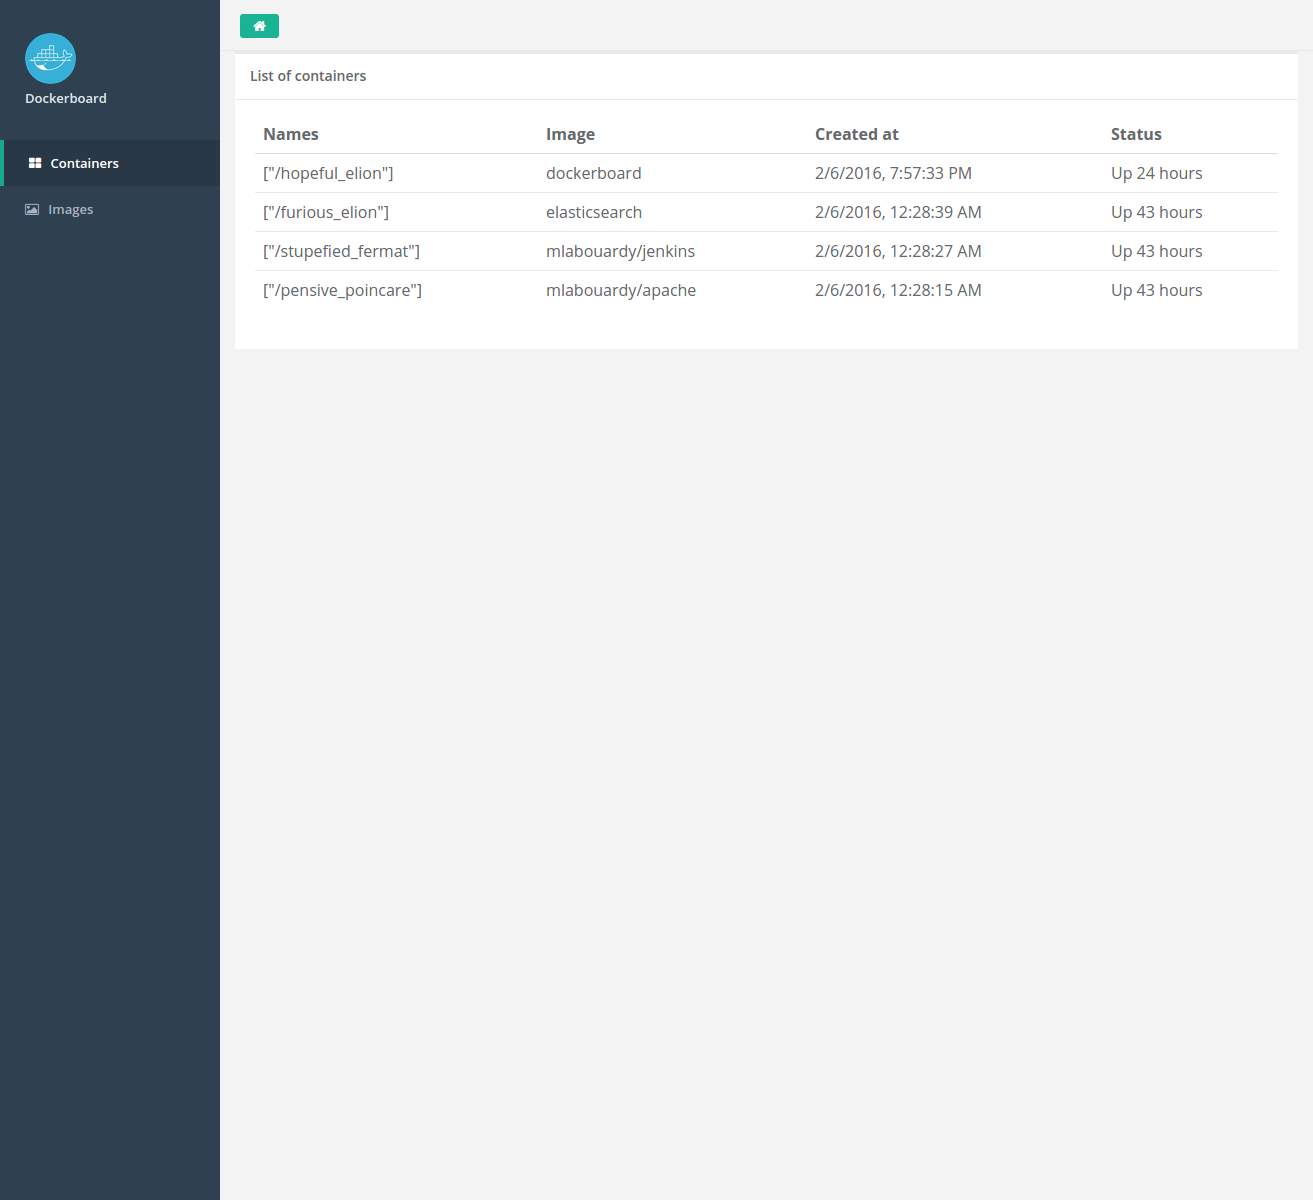
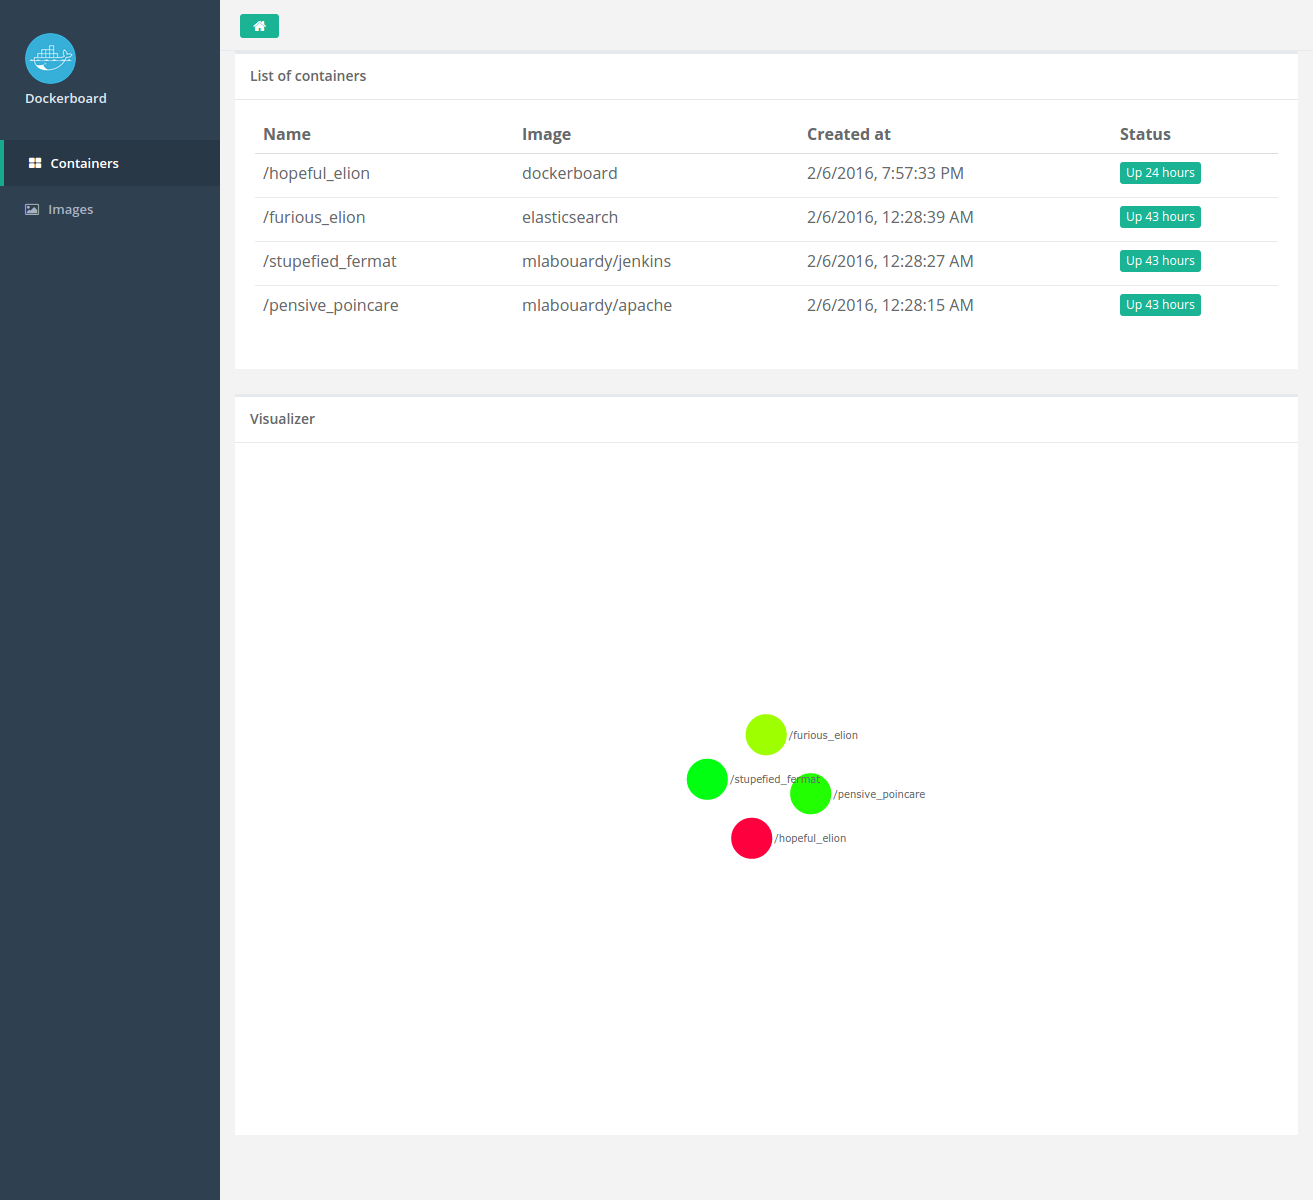
docker info/containers visualizer/images infos

diff --git a/public/views/images.html b/public/views/images.html
@@ -5,6 +5,32 @@
         <h5>List of images</h5>
       </div>
       <div class="ibox-content">
+        <div class="row">
+          <div class="form-group col-sm-3 m-b-xs">
+            <div class="input-group">
+              <span class="input-group-addon"><i class="glyphicon glyphicon-text-color"></i></span>
+              <input type="text" class="form-control input-sm" ng-model="keyword.name"/>
+            </div>
+          </div>
+          <div class="form-group col-sm-3 m-b-xs">
+            <div class="input-group">
+              <span class="input-group-addon"><i class="fa fa-tag"></i></span>
+              <input type="text" class="form-control input-sm" ng-model="keyword.tag"/>
+            </div>
+          </div>
+          <div class="form-group col-sm-3 m-b-xs">
+            <div class="input-group">
+                 <span class="input-group-addon" ng-click="open()"><i class="glyphicon glyphicon-calendar"></i></span>
+               <input type="text" ng-model="keyword.date" uib-datepicker-popup="MM/dd/yyyy" class="form-control input-sm" ng-model="dt" is-open="popup.opened" min-date="minDate" max-date="maxDate" datepicker-options="dateOptions" date-disabled="disabled(date, mode)" ng-required="true" close-text="Close" />
+            </div>
+          </div>
+          <div class="form-group col-sm-3 m-b-xs">
+            <div class="input-group">
+              <span class="input-group-addon"><i class="glyphicon glyphicon-floppy-disk"></i></span>
+              <input type="number" ng-model="keyword.size" class="form-control input-sm"/>
+            </div>
+          </div>
+        </div>
         <table class="table table-sm">
           <thead>
             <tr>
@@ -15,11 +41,21 @@
             </tr>
           </thead>
           <tbody>
-            <tr ng-repeat="image in images">
+            <tr ng-repeat="image in images| filter:{Name: keyword.name, Tag: keyword.tag, VirtualSize: keyword.size, Created: keyword.date}">
               <td>{{image.Name}}</td>
               <td>{{image.Tag}}</td>
               <td>{{image.Created}}</td>
-              <td>{{image.VirtualSize | number:1}} Mb</td>
+              <td>
+                <div ng-show="image.VirtualSize > 500">
+                  <span class="btn btn-danger btn-xs">{{image.VirtualSize | number:1}} Mb</span>
+                </div>
+                <div ng-show="image.VirtualSize > 250 && image.VirtualSize <= 500">
+                  <span class="btn btn-warning btn-xs">{{image.VirtualSize | number:1}} Mb</span>
+                </div>
+                <div ng-show="image.VirtualSize <= 250">
+                  <span class="btn btn-primary btn-xs">{{image.VirtualSize | number:1}} Mb</span>
+                </div>
+              </td>
             </tr>
           </tbody>
         </table>

diff --git a/public/scripts/controllers/containers.js b/public/scripts/controllers/containers.js
@@ -6,6 +6,83 @@ angular.module('dockerboard')
         var d = new Date(0);
 			  d.setUTCSeconds($scope.containers[i].Created);
 			  $scope.containers[i].Created=d.toLocaleString();
+
+        var name=$scope.containers[i].Names[0];
+ 			  $scope.containers[i].Name=name;
+
       }
+
+
+
+    containers=$scope.containers;
+    var arr = [];
+    for (var prop in containers) {
+      arr.push(containers[prop]);
+    }
+    $scope.data={
+      nodes:arr,
+      links:[]
+    };
+
+    var graph=$scope.data;
+
+    var width = document.getElementById('canvas').clientWidth;
+    height = document.getElementById('canvas').clientHeight;
+
+    var force = d3.layout.force()
+    .charge(-200)
+    .linkDistance(30)
+    .size([width, height]);
+
+    var svg = d3.select("#canvas").append("svg")
+    .attr("width", "100%")
+    .attr("height", "100%");
+
+    var main = svg.append("g")
+    .attr("class", "graph");
+
+    force
+    .nodes(graph.nodes)
+    .links(graph.links)
+    .start();
+
+    var link = main.selectAll(".link")
+    .data(graph.links)
+    .enter().append("line")
+    .attr("class", "link")
+    .style("stroke-width", function(d) { return 2 * d.strength; });
+
+    var node = main.selectAll(".node_circle")
+    .data(graph.nodes)
+    .enter().append("circle")
+    .attr("class", "node_circle")
+    .attr("r", function(d) { return 0.5 * Math.sqrt(1695); })
+    .style("fill", function(d){ return "hsl(" + Math.random() * 360 + ",100%,50%)"; } )
+    .call(force.drag);
+
+    var label = main.selectAll(".node_label")
+    .data(graph.nodes)
+    .enter().append("text")
+    .attr("class", "node_label")
+    .attr("dx", function(d) { return 2 + 0.5 * Math.sqrt(1695); })
+    .attr("dy", ".4em")
+    .attr("font-family", "Verdana")
+    .attr("font-size", 10)
+    .style("fill", "#676A6C")
+    .text(function(d) { return d.Name; });
+
+    force.on("tick", function() {
+      link.attr("x1", function(d) { return d.source.x; })
+      .attr("y1", function(d) { return d.source.y; })
+      .attr("x2", function(d) { return d.target.x; })
+      .attr("y2", function(d) { return d.target.y; });
+
+      node.attr("cx", function(d) { return d.x; })
+      .attr("cy", function(d) { return d.y; });
+
+      label.attr("x", function(d) { return d.x; })
+      .attr("y", function(d) { return d.y; });
+    });
+
     });
   });

diff --git a/public/scripts/controllers/images.js b/public/scripts/controllers/images.js
@@ -1,21 +1,32 @@
 angular.module('dockerboard')
-  .controller('ImagesCtrl',function($scope, DockerFactory){
-    DockerFactory.images().then(function(images){
-      $scope.images=images.data;
-      for(var i=0;i<$scope.images.length;i++){
-        var d = new Date(0);
-        d.setUTCSeconds($scope.images[i].Created);
-        $scope.images[i].Created=d.toLocaleString();
+.controller('ImagesCtrl',function($scope, DockerFactory){
+  DockerFactory.images().then(function(images){
+    $scope.images=images.data;
+    for(var i=0;i<$scope.images.length;i++){
+      var d = new Date(0);
+      d.setUTCSeconds($scope.images[i].Created);
+      $scope.images[i].Created=d.toLocaleString();
 
-        var repositoryName=$scope.images[i].RepoTags[0];
- 			  var tag = repositoryName.substr(repositoryName.indexOf(":") + 1);
- 			  var imageName= repositoryName.substr(0, repositoryName.indexOf(':'));
+      var repositoryName=$scope.images[i].RepoTags[0];
+      var tag = repositoryName.substr(repositoryName.indexOf(":") + 1);
+      var imageName= repositoryName.substr(0, repositoryName.indexOf(':'));
 
-        $scope.images[i].Name=imageName;
-        $scope.images[i].Tag=tag;
+      $scope.images[i].Name=imageName;
+      $scope.images[i].Tag=tag;
 
-        var size=$scope.images[i].VirtualSize;
- 			  $scope.images[i].VirtualSize=(size/1000)/1000;
-      }
-    });
+      var size=$scope.images[i].VirtualSize;
+      $scope.images[i].VirtualSize=(size/1000)/1000;
+    }
   });
+
+  $scope.keyword={};
+
+  $scope.open=function(){
+    $scope.popup.opened = true;
+  }
+
+  $scope.popup = {
+    opened: false
+  };
+
+});

diff --git a/public/views/main.html b/public/views/main.html
@@ -1,1 +1,43 @@
-Main sd
+<div class="wrapper wrapper-content animated fadeInRight">
+  <div class="row">
+    <div class="col-lg-3">
+      <div class="widget style1 navy-bg">
+        <div class="row">
+          <div class="col-xs-4 text-center">
+            <i class="fa fa-play fa-5x"></i>
+          </div>
+          <div class="col-xs-8 text-right">
+            <span> Running containers </span>
+            <h2 class="font-bold">{{info.running}}</h2>
+          </div>
+        </div>
+      </div>
+    </div>
+    <div class="col-lg-3">
+      <div class="widget style1 red-bg">
+        <div class="row">
+          <div class="col-xs-4">
+            <i class="fa fa-stop fa-5x"></i>
+          </div>
+          <div class="col-xs-8 text-right">
+            <span> Exited containers </span>
+            <h2 class="font-bold">14</h2>
+          </div>
+        </div>
+      </div>
+    </div>
+    <div class="col-lg-3">
+      <div class="widget style1 lazur-bg">
+        <div class="row">
+          <div class="col-xs-4">
+            <i class="fa fa-picture-o fa-5x"></i>
+          </div>
+          <div class="col-xs-8 text-right">
+            <span> Images </span>
+            <h2 class="font-bold">{{info.images}}</h2>
+          </div>
+        </div>
+      </div>
+    </div>
+  </div>
+</div>

diff --git a/public/views/containers.html b/public/views/containers.html
@@ -8,7 +8,7 @@
         <table class="table table-sm">
           <thead>
             <tr>
-              <th>Names</th>
+              <th>Name</th>
               <th>Image</th>
               <th>Created at</th>
               <th>Status</th>
@@ -16,13 +16,25 @@
           </thead>
           <tbody>
             <tr ng-repeat="container in containers">
-              <td>{{container.Names}}</td>
+              <td>{{container.Name}}</td>
               <td>{{container.Image}}</td>
               <td>{{container.Created}}</td>
-              <td>{{container.Status}}</td>
+              <td><span class="btn btn-primary btn-xs">{{container.Status}}<span></td>
             </tr>
           </tbody>
         </table>
+      </div>
+    </div>
+  </div>
+</div>
+<div class="row">
+  <div class="col-lg-12">
+    <div class="ibox float-e-margins">
+      <div class="ibox-title">
+        <h5>Visualizer</h5>
+      </div>
+      <div class="ibox-content">
+        <div id="canvas" style="width:100%;height:100%">
       </div>
     </div>
   </div>

diff --git a/docker.js b/docker.js
@@ -1,15 +1,31 @@
 var Docker=require('dockerode');
-    docker = new Docker();
+docker = new Docker();
+
+var listContainers=function(callback){
+  docker.listContainers(function (err, containers) {
+    callback(err,containers);
+  });
+}
+
+var listImages=function(callback){
+  docker.listImages(function (err, images) {
+    callback(err,images);
+  });
+}
+
+var infos=function(callback){
+  var info={};
+  listContainers(function(err,containers){
+    info.running=containers.length;
+    listImages(function(err,images){
+      info.images=images.length;
+      callback(err,info);
+    });
+  });
+}
 
 module.exports={
-  listContainers:function(callback){
-    docker.listContainers(function (err, containers) {
-      callback(err,containers);
-    });
-  },
-  listImages:function(callback){
-    docker.listImages(function (err, images) {
-      callback(err,images);
-    });
-  }
+  listContainers:listContainers,
+  listImages:listImages,
+  infos:infos
 }

diff --git a/public/index.html b/public/index.html
@@ -51,9 +51,12 @@
   <script src="bower_components/jquery/dist/jquery.min.js" charset="utf-8"></script>
   <script src="bower_components/angular/angular.min.js" charset="utf-8"></script>
   <script src="bower_components/angular-route/angular-route.min.js" charset="utf-8"></script>
+  <script src="bower_components/angular-bootstrap/ui-bootstrap-tpls.min.js" charset="utf-8"></script>
+  <script src="bower_components/d3/d3.min.js" charset="utf-8"></script>
   <script src="scripts/app.js" charset="utf-8"></script>
   <script src="scripts/services/dockerfactory.js" charset="utf-8"></script>
   <script src="scripts/controllers/containers.js" charset="utf-8"></script>
   <script src="scripts/controllers/images.js" charset="utf-8"></script>
   <script src="scripts/controllers/navbar.js" charset="utf-8"></script>
+  <script src="scripts/controllers/dashboard.js" charset="utf-8"></script>
   </html>

diff --git a/public/scripts/app.js b/public/scripts/app.js
@@ -1,8 +1,9 @@
-angular.module('dockerboard',['ngRoute'])
+angular.module('dockerboard',['ngRoute','ui.bootstrap'])
   .config(function($routeProvider){
       $routeProvider
         .when('/',{
           templateUrl:'views/main.html',
+          controller:'DashboardCtrl',
           title:'Dashboard'
         })
         .when('/containers',{

diff --git a/public/scripts/services/dockerfactory.js b/public/scripts/services/dockerfactory.js
@@ -7,6 +7,9 @@ angular.module('dockerboard')
       },
       images:function(){
         return $http.get('images.json');
+      },
+      infos:function(){
+        return $http.get('info.json');
       }
     }
   });

diff --git a/public/scripts/controllers/dashboard.js b/public/scripts/controllers/dashboard.js
@@ -1,0 +1,6 @@
+angular.module('dockerboard')
+  .controller('DashboardCtrl',function($scope, DockerFactory){
+    DockerFactory.infos().then(function(info){
+      $scope.info=info.data;
+    });
+  });
